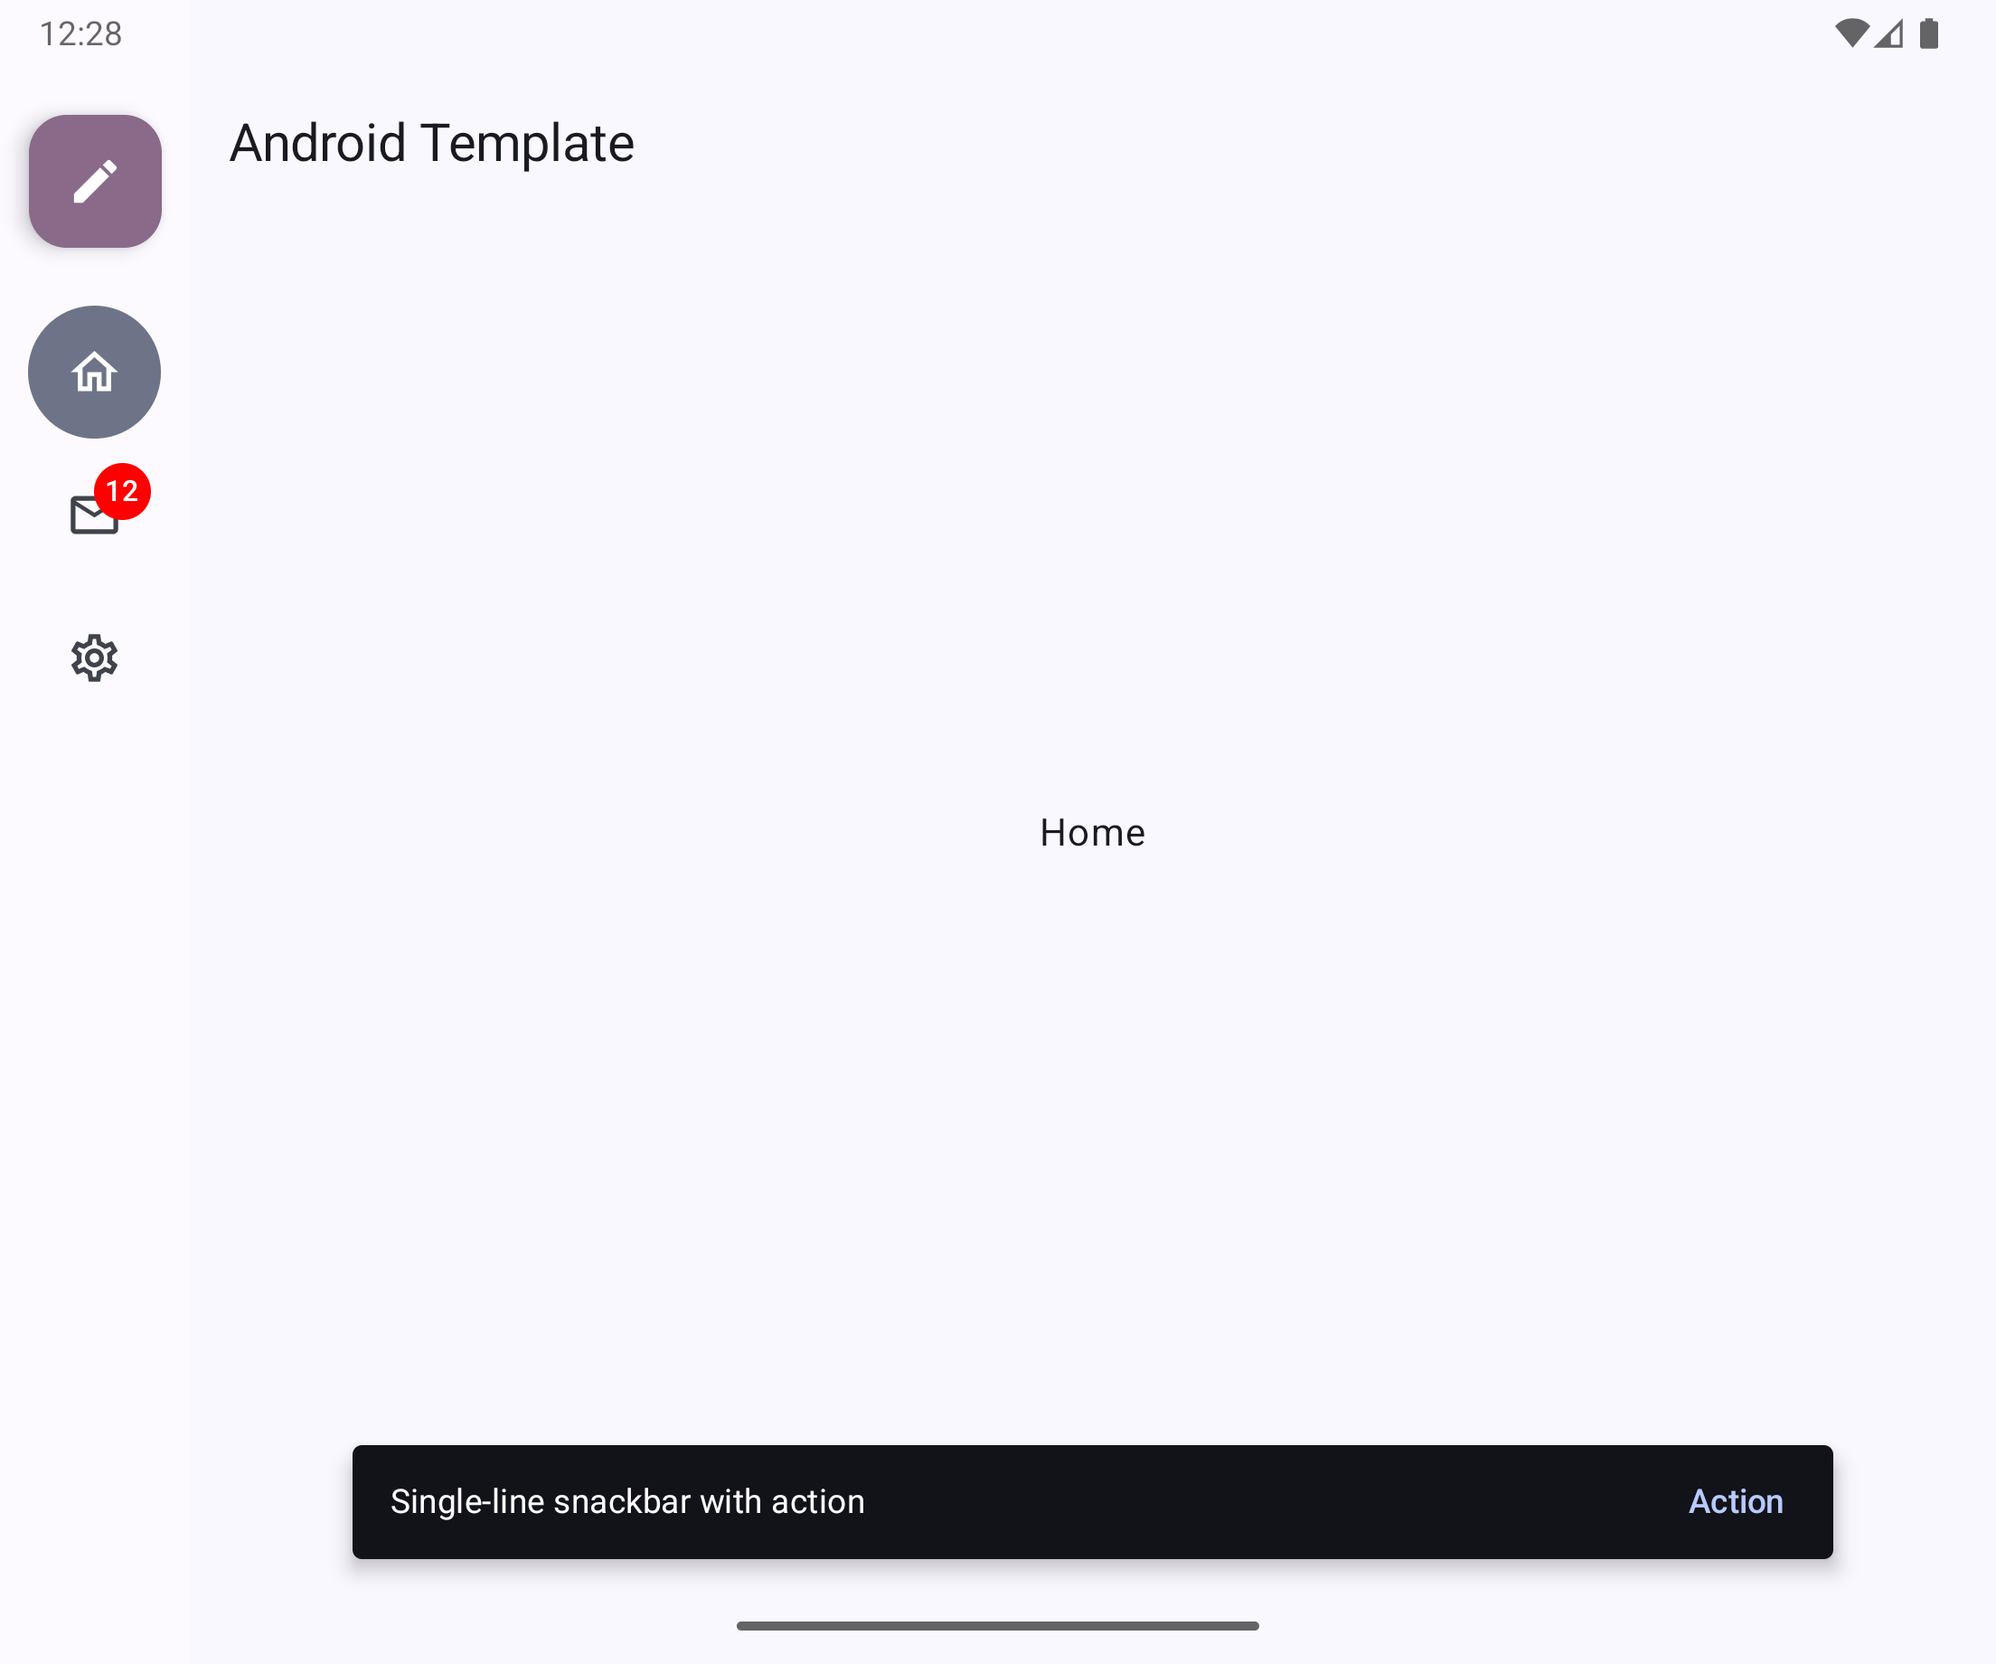
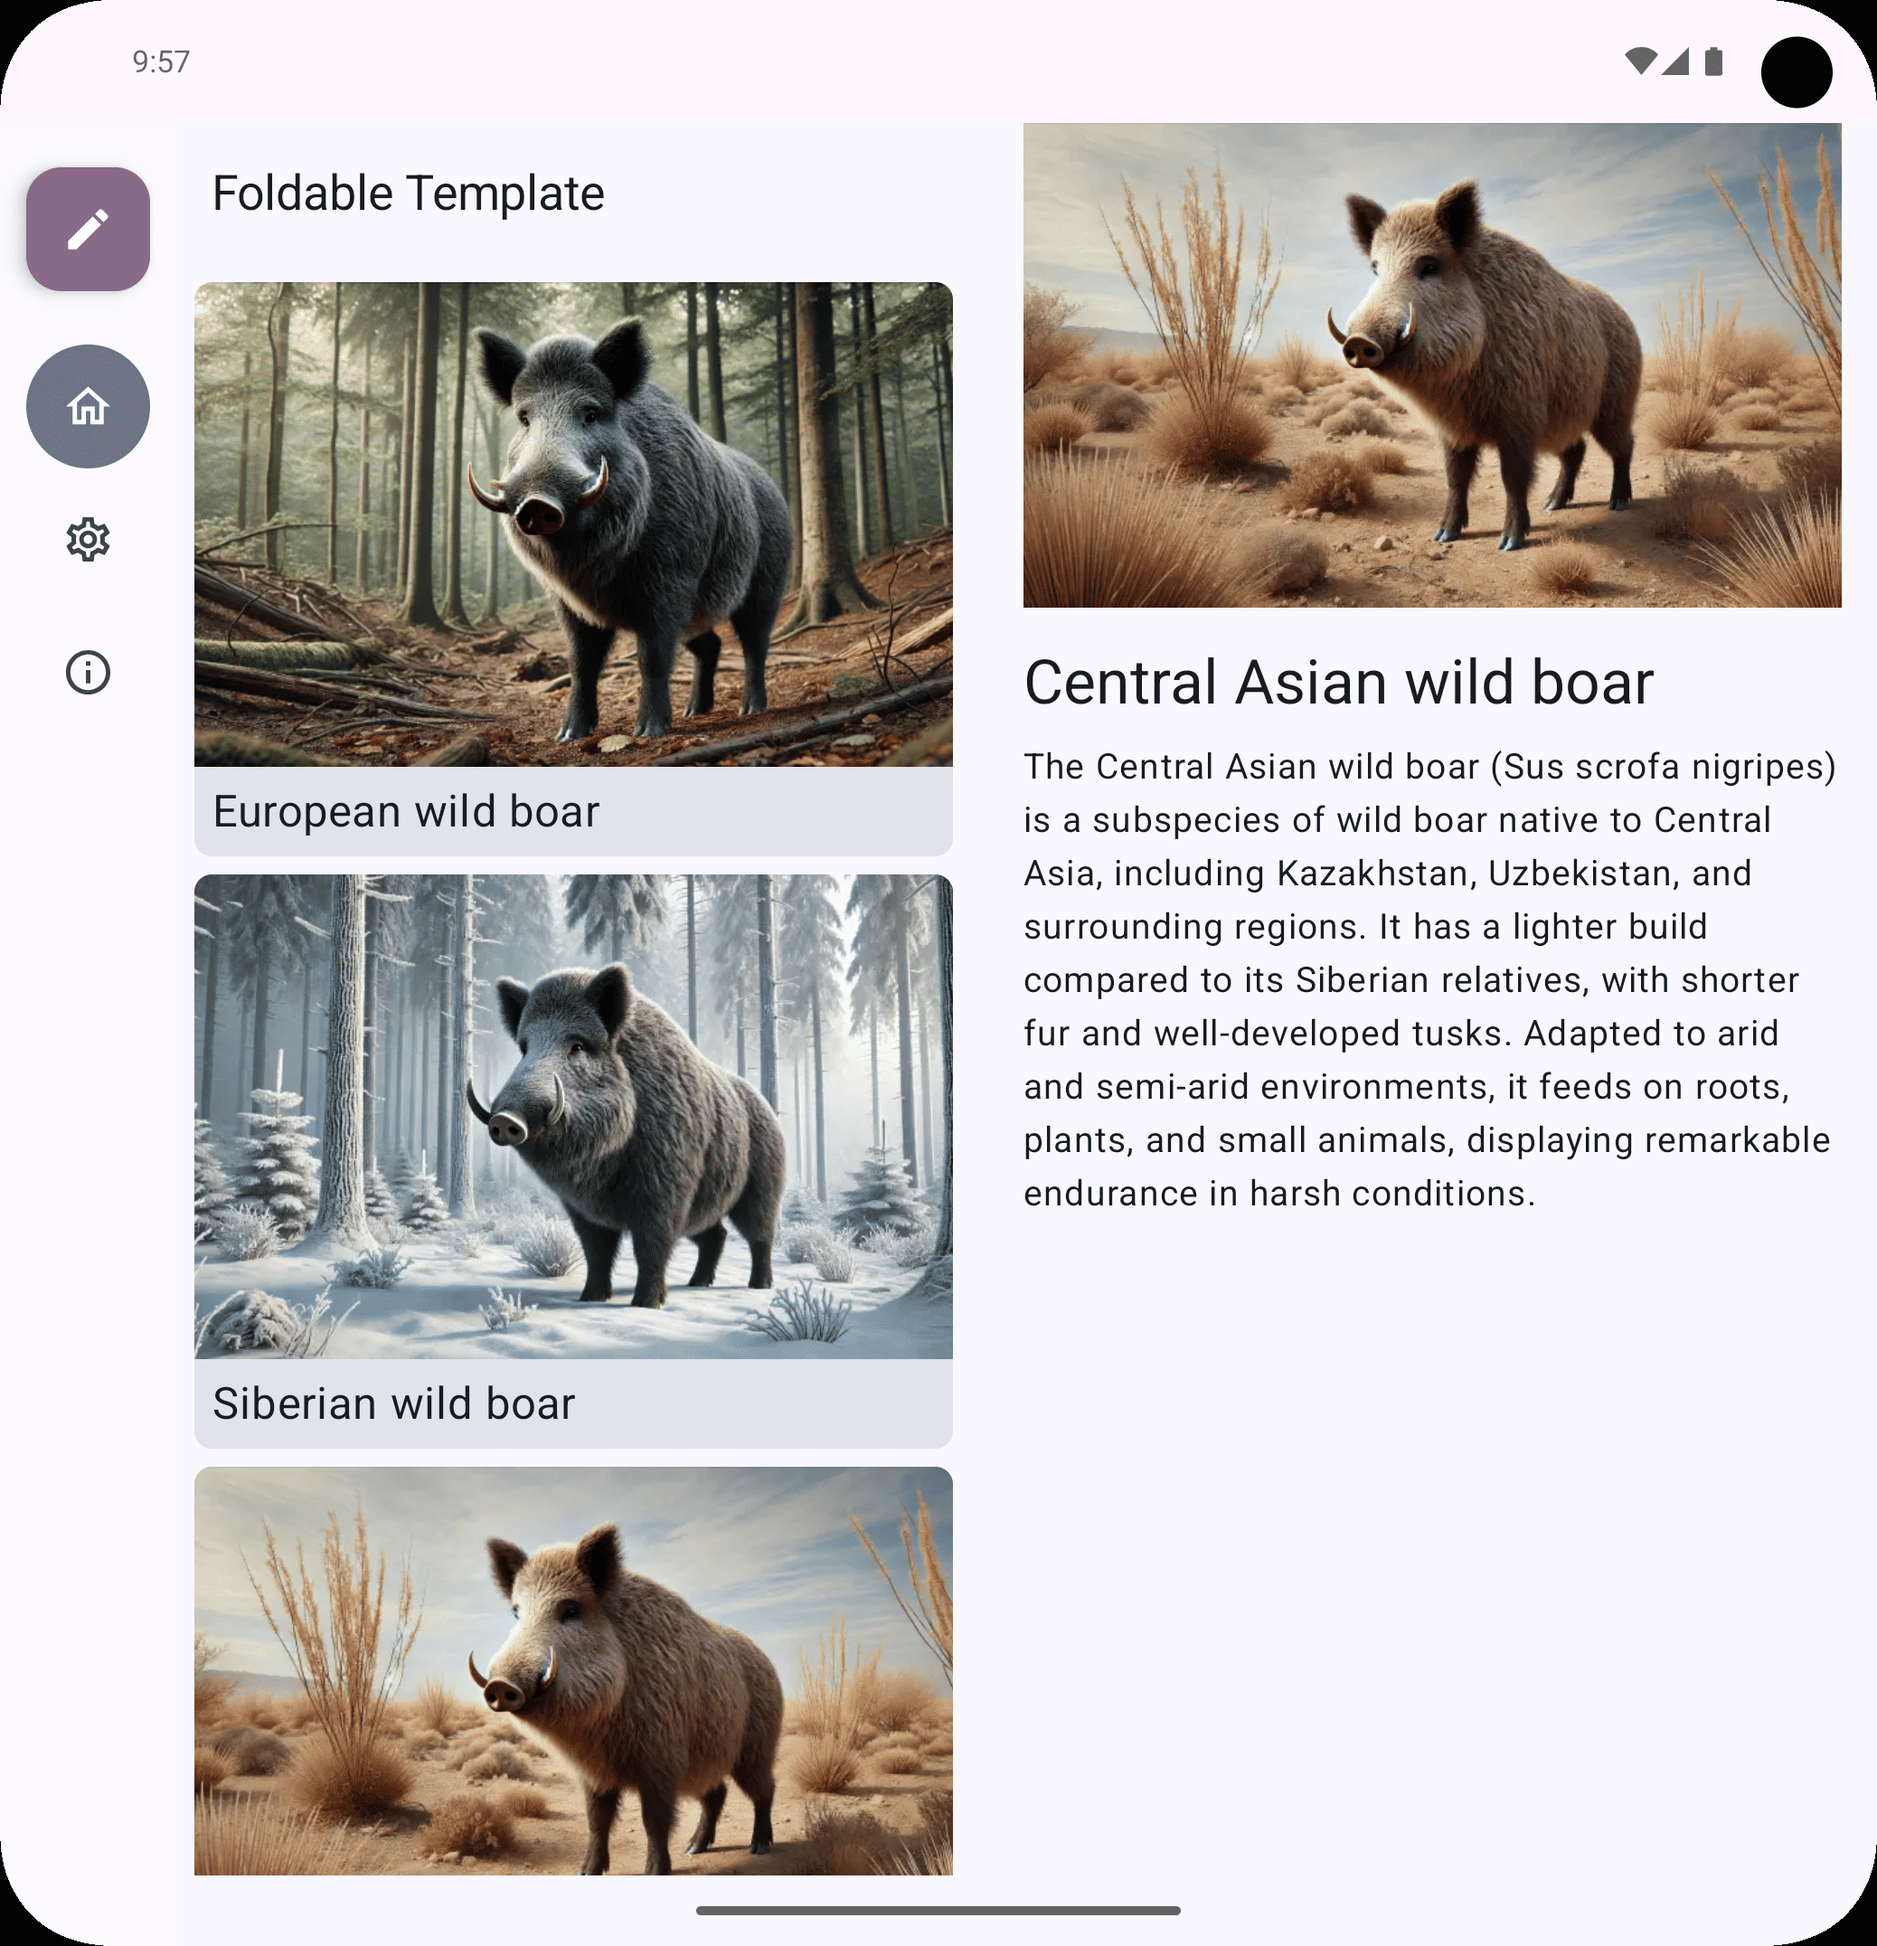
Update project

diff --git a/core/src/main/kotlin/org/michaelbel/core/ktx/ConfigurationKtx.kt b/core/src/main/kotlin/org/michaelbel/core/ktx/ConfigurationKtx.kt
@@ -1,4 +1,4 @@
-@file:Suppress("unused", "ObsoleteSdkInt")
+@file:Suppress("unused", "ObsoleteSdkInt", "RestrictedApi")
 
 package org.michaelbel.core.ktx
 
@@ -13,10 +13,16 @@ import android.view.WindowInsets
 import android.view.WindowManager
 import android.view.WindowMetrics
 import androidx.compose.runtime.Composable
+import androidx.compose.runtime.collectAsState
+import androidx.compose.runtime.remember
 import androidx.compose.ui.platform.LocalConfiguration
+import androidx.compose.ui.platform.LocalContext
 import androidx.compose.ui.unit.Dp
 import androidx.compose.ui.unit.dp
 import androidx.core.content.ContextCompat
+import androidx.window.layout.FoldingFeature
+import androidx.window.layout.WindowInfoTracker
+import androidx.window.layout.WindowLayoutInfo
 
 inline val Context.deviceWidth: Int
     get() {
@@ -111,7 +117,15 @@ inline val isLandscape: Boolean
     @Composable get() = LocalConfiguration.current.orientation == Configuration.ORIENTATION_LANDSCAPE
 
 inline val isTabletPortrait: Boolean
-    @Composable get() = isPortrait && screenWidth >= 600
+    @Composable get() = !isFoldable() && isPortrait && screenWidth >= 600
 
 inline val isTabletLandscape: Boolean
-    @Composable get() = isLandscape && screenWidth >= 1200
+    @Composable get() = !isFoldable() && isLandscape && screenWidth >= 1200
+
+@Composable
+fun isFoldable(): Boolean {
+    val context = LocalContext.current
+    val windowLayoutInfo = remember { WindowInfoTracker.getOrCreate(context).windowLayoutInfo(context) }
+    val foldableState = windowLayoutInfo.collectAsState(initial = WindowLayoutInfo(emptyList()))
+    return foldableState.value.displayFeatures.any { it is FoldingFeature }
+}

diff --git a/mobile/src/main/kotlin/org/michaelbel/template/ui/list/ListScreen.kt b/mobile/src/main/kotlin/org/michaelbel/template/ui/list/ListScreen.kt
@@ -55,7 +55,7 @@ fun ListScreen(
             TopAppBar(
                 title = {
                     Text(
-                        text = "Phone Template"
+                        text = "Foldable Template"
                     )
                 }
             )
